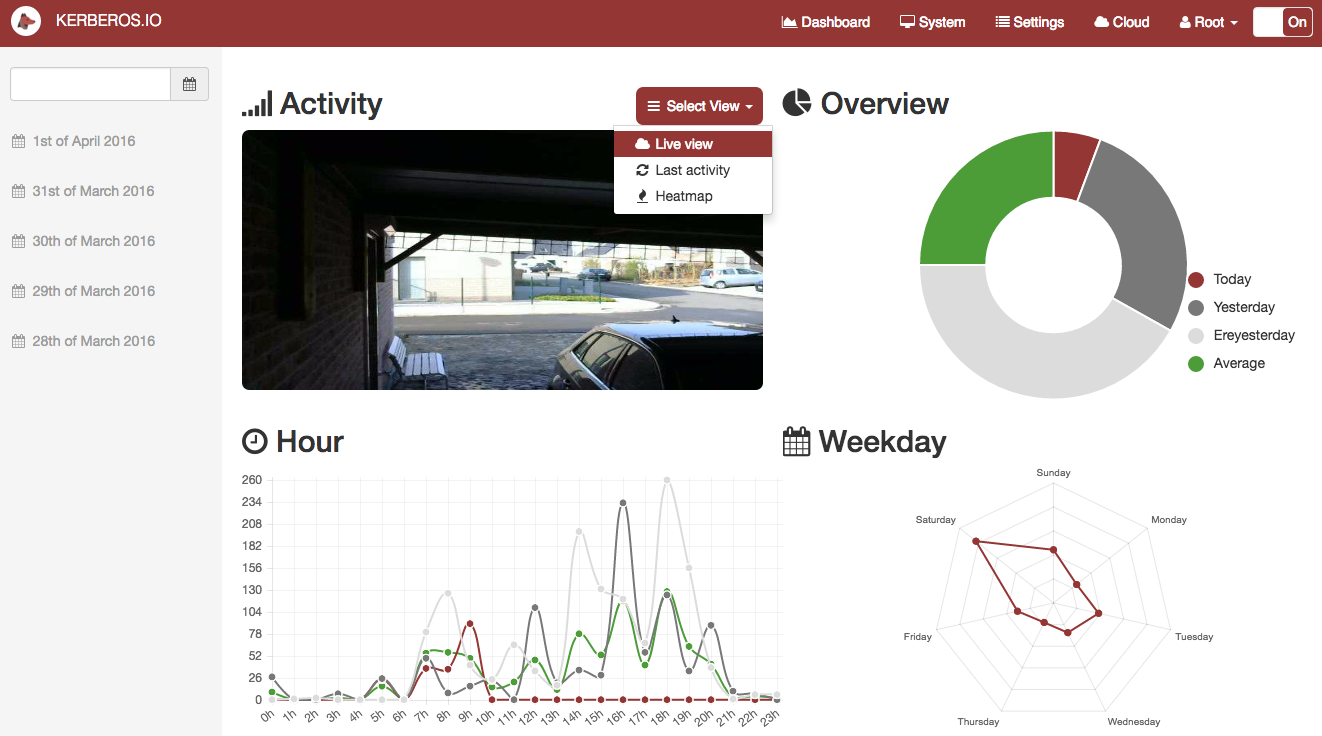
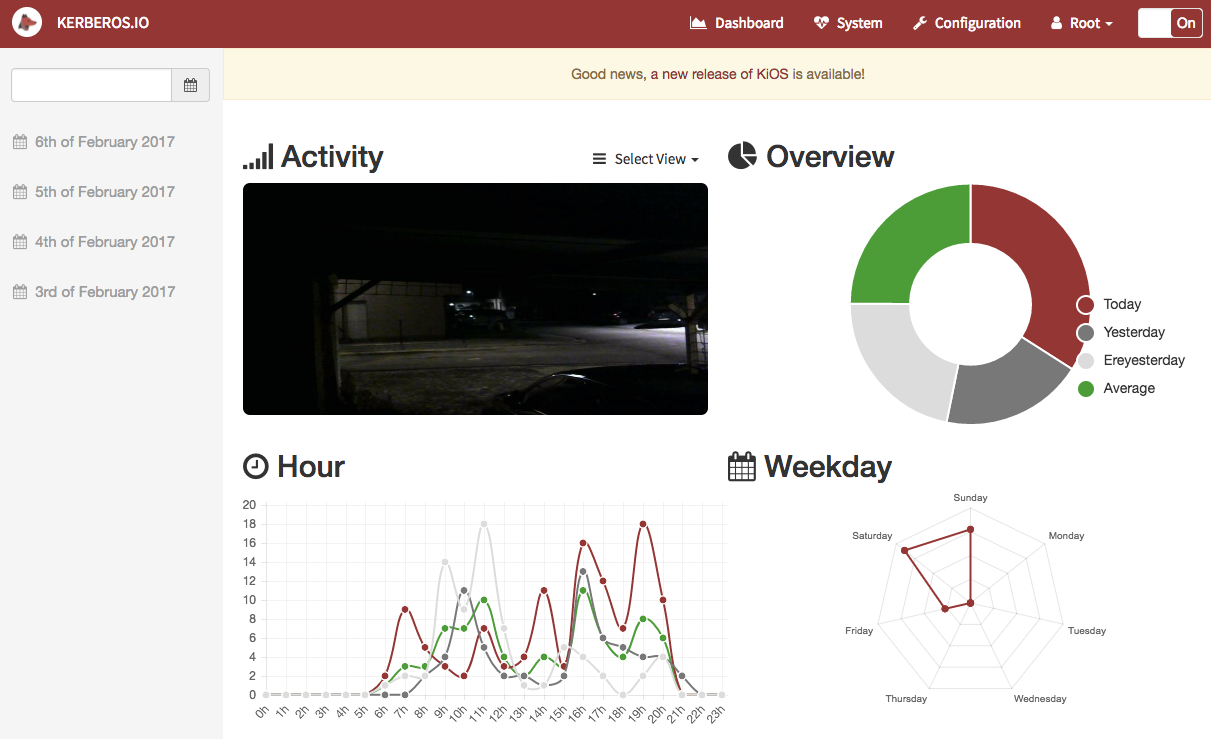
update screenshots

diff --git a/2_requirements.md b/2_requirements.md
@@ -2,7 +2,7 @@
 
 ## Which hardware do I need?
 
-Kerberos.io runs on every machine but its main goal is to run on a **Raspberry Pi**. We provide multiple ways (KIOS, Raspbian, Armbian, Docker, etc) to install Kerberos.io on the device your prefer. If you want to run Kerberos.io on a Raspberry Pi or any other board you'll first need to buy some hardware.
+Kerberos.io runs on every machine but its main goal is to run on a Raspberry Pi or any other board. We provide multiple ways (KIOS, Raspbian, Armbian, Docker, etc) to install Kerberos.io on the device your prefer. If you want to run Kerberos.io on a Raspberry Pi or any other board you'll first need to **buy some hardware**.
 
 ### Raspberry Pi 
 
@@ -14,7 +14,7 @@ To simplify the lives of our Raspberry Pi users, Kerberos.io comes with a custom
 
 ### What about other boards?
 
-Kerberos.io can also be installed on other boards by following the [**Armbian**](/installation/armbian) installation. This is a short list of microcontrollers which work properly:
+Kerberos.io can also be installed on other boards by following the [**Armbian**](/installation/armbian) installation. This is a short list of microcontrollers on which we have tested Kerberos.io using the Armbian OS:
 
  * PCDuino3 Nano (Allwinner A20)
  * Orange Pi + (Allwinner H3)

diff --git a/71_web/1_introduction.md b/71_web/1_introduction.md
@@ -29,9 +29,3 @@ The settings page allows you to configure the machinery. You can define the type
 The system page allows you to **monitor** the system. On this page you'll get an overview of the **system specifications** (CPU, Memory, Network, etc). When installed KiOS, you'll also get the possibility to **update Kerberos.io** to a newer release. Several actions are available: you can **download system information** (for debugging purposes) and **download or remove** your images.
 
 ![System](1_system.png)
-
-### Cloud 
-
-On the cloud page you can configure Kerberos.io to **sync the images** to your cloud subscription. All you need to do is fill in your credentials and you're ready to go.
-
-![Cloud](1_cloud.png)

diff --git a/70_installation/1_first_things_first.md b/70_installation/1_first_things_first.md
@@ -1,6 +1,6 @@
 #First things first
 
-The reason why you're on this page is because you want to know how to install Kerberos.io on your Raspberry Pi, local working station, server or whatever Linux machine you prefer. The good news is that we have **different approaches** from basic to advanced; it depends on how you want to install it.
+The reason why you're on this page is because you want to know how to install Kerberos.io on your microcontroller, local working station, server or whatever Linux machine you prefer. The good news is that we have **different approaches** from basic to advanced; it depends on how you want to install it.
 
 ## Raspberry Pi (ARM)
 
